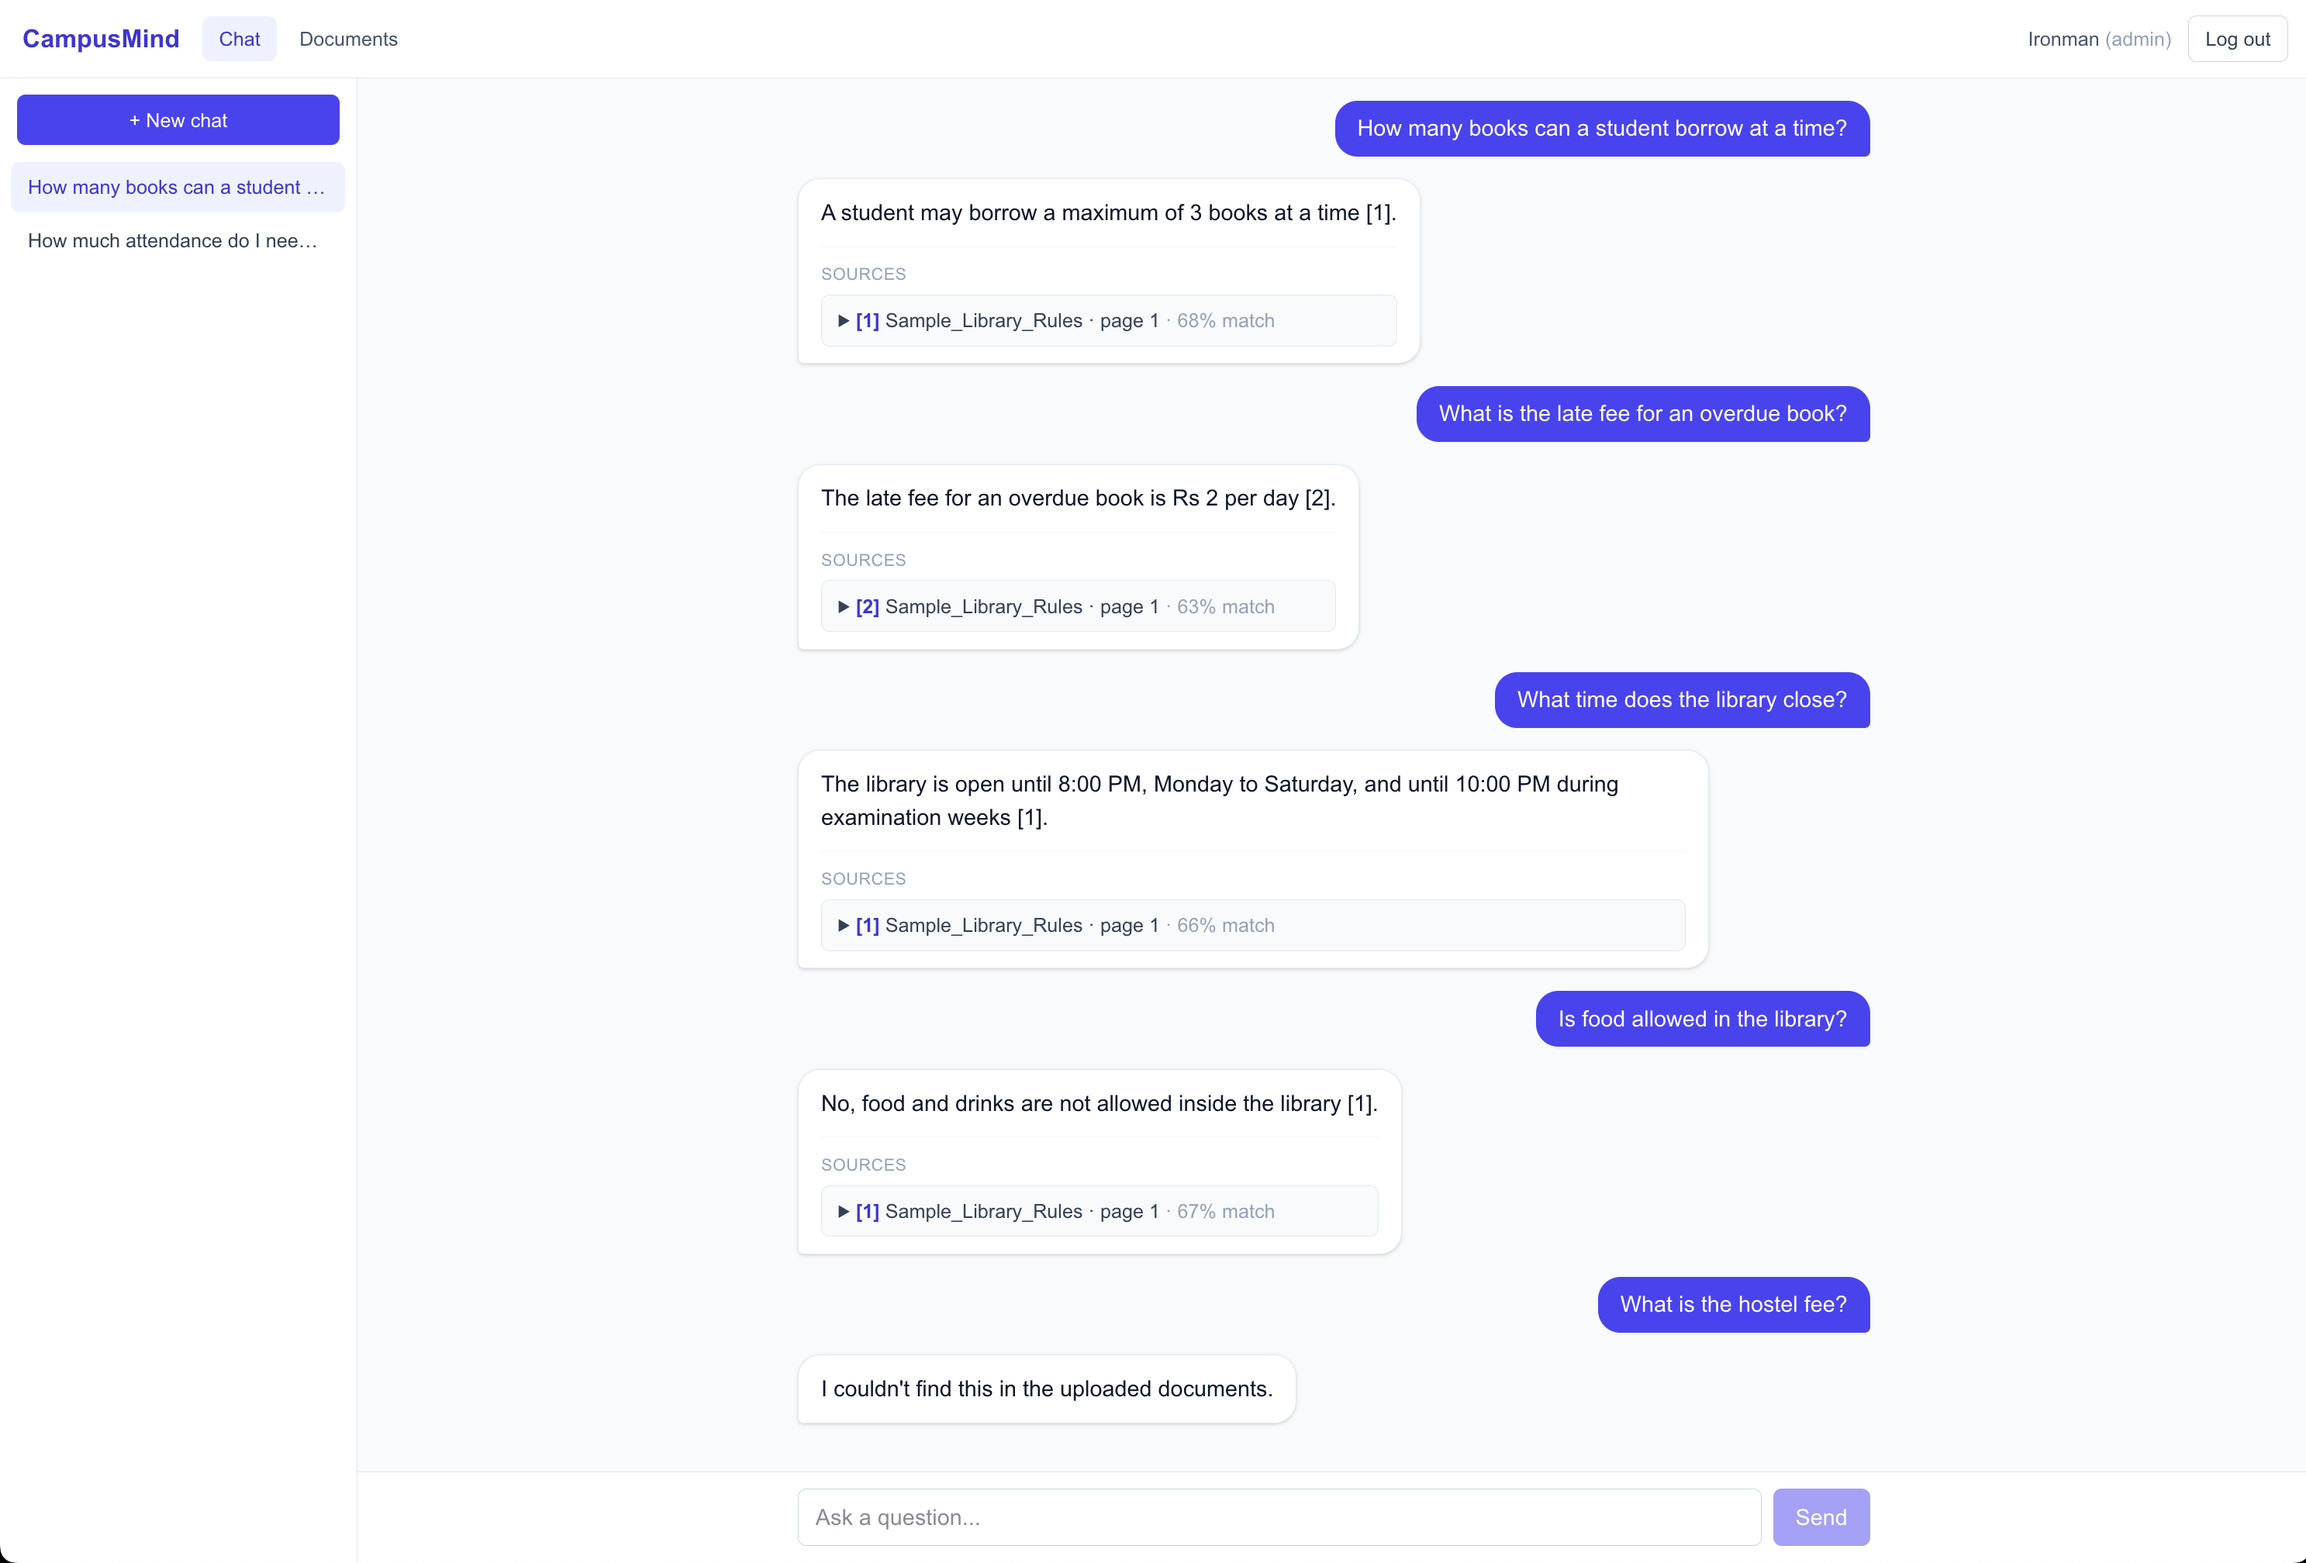
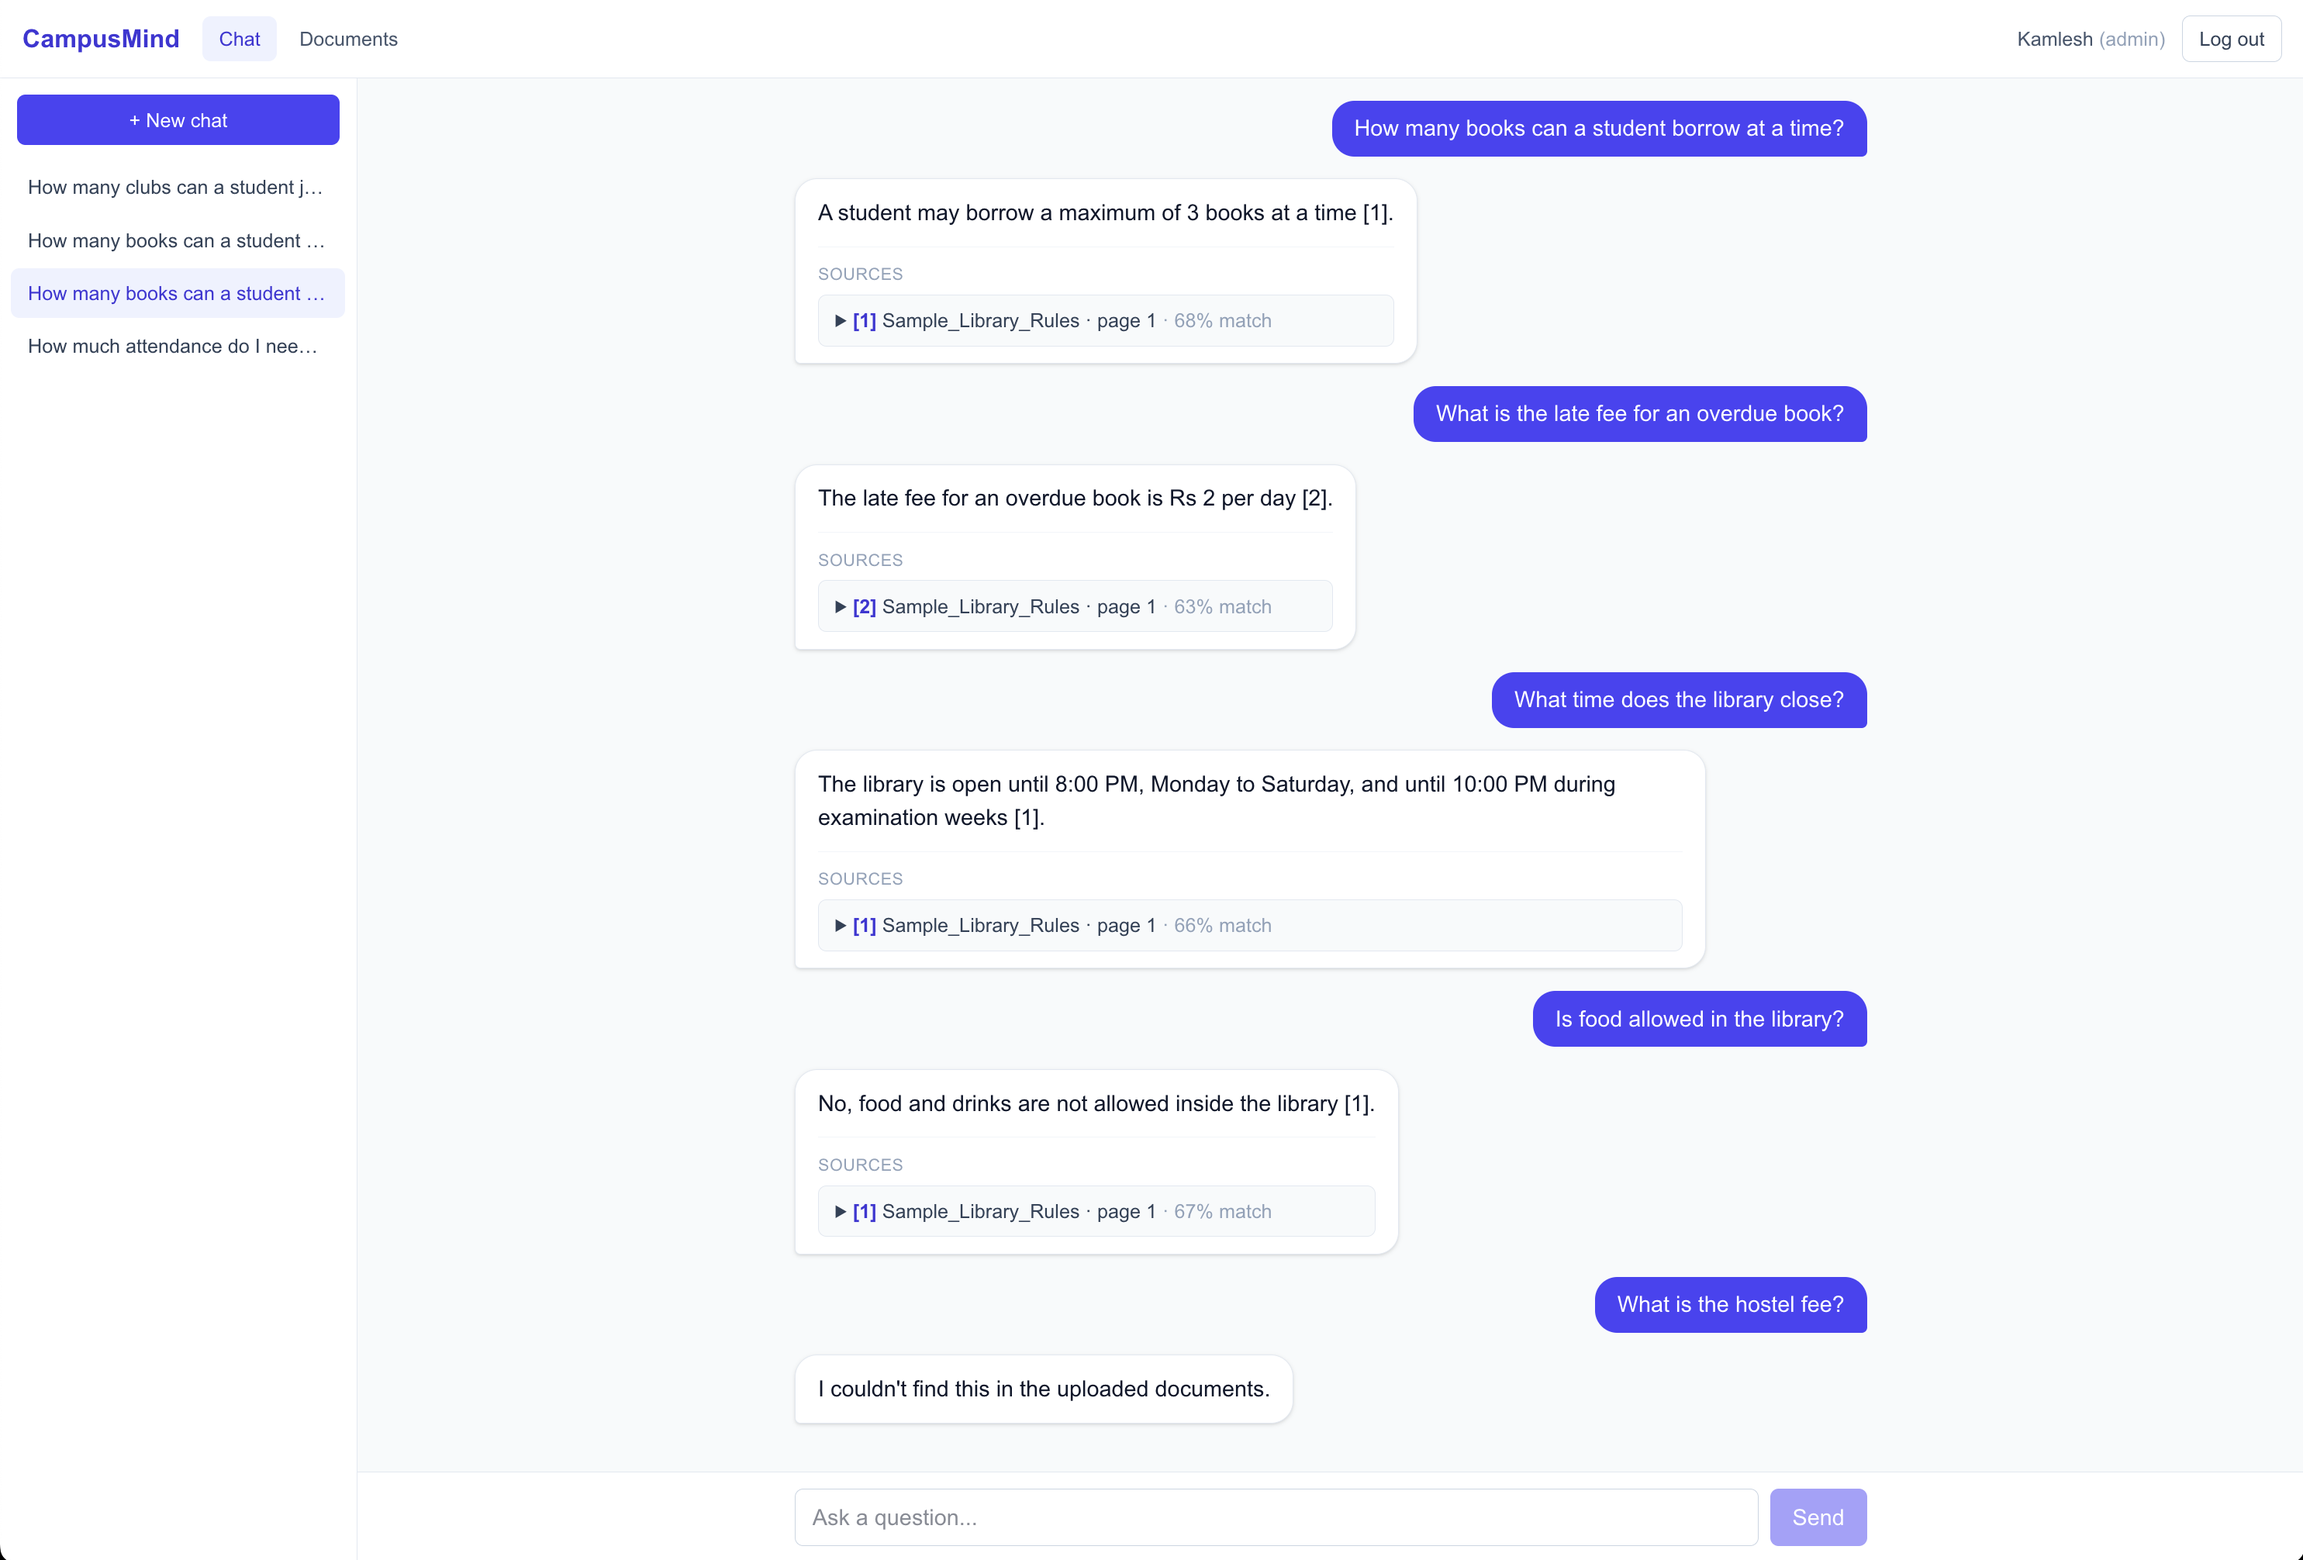
Update README screenshots

diff --git a/README.md b/README.md
@@ -12,6 +12,8 @@ Try asking: *How many books can a student borrow at a time?*, *What is the late 
 
 ## Screenshots
 
+![Landing page](docs/screenshots/landing.png)
+
 ![Chat with cited sources](docs/screenshots/chat.png)
 
 ![Document upload and processing status](docs/screenshots/documents.png)
